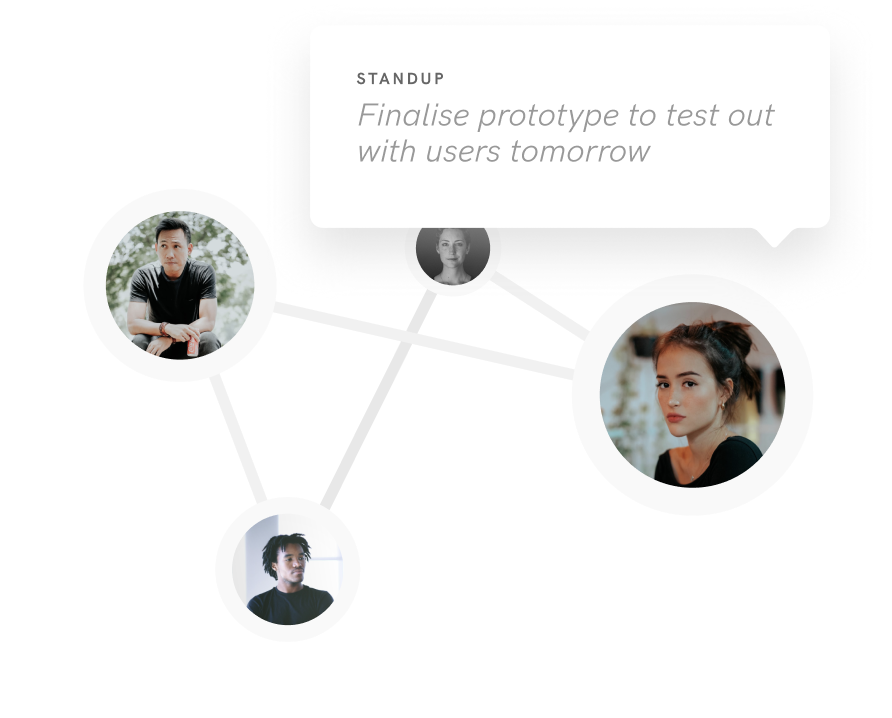
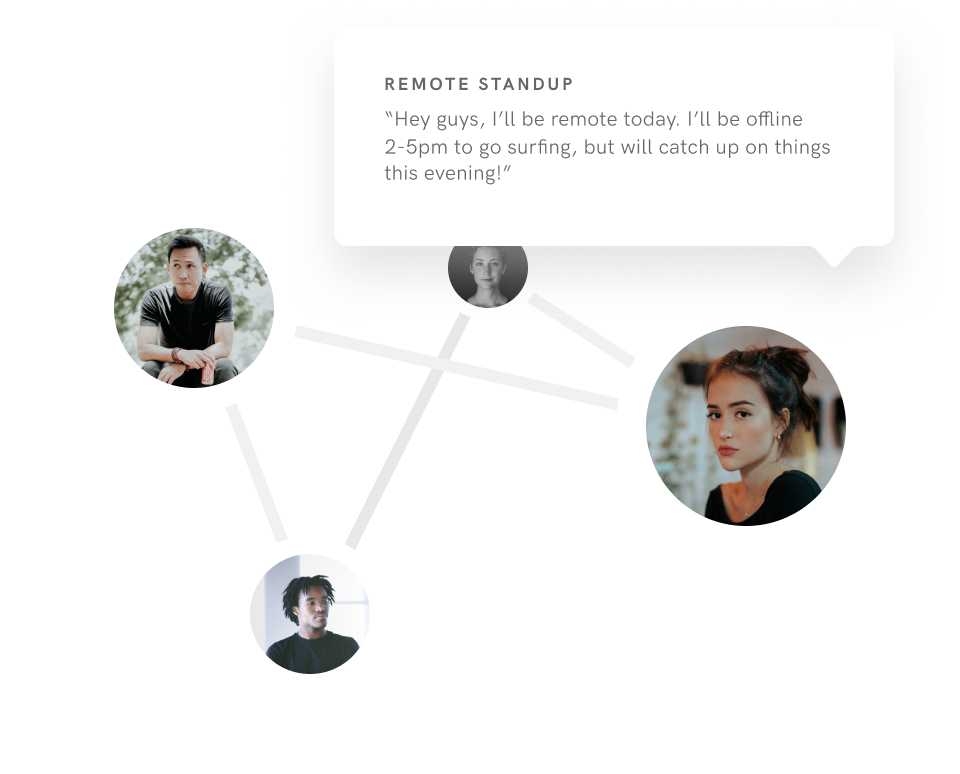
ProductShowcase: Simplify value proposition

Changed region(s): [[0.3935, 0.0919, 0.8778, 0.2451], [0.2119, 0.3677, 0.2422, 0.3983], [0.1513, 0.3677, 0.1816, 0.3983]]

diff --git a/src/components/blocks/ProductShowcase/ProductShowcase.jsx b/src/components/blocks/ProductShowcase/ProductShowcase.jsx
@@ -1,6 +1,7 @@
 import React, { Component } from 'react';
 
 import imgGuide from '../../../assets/images/prototype/product_guide.png';
+import imgOnboarding from '../../../assets/images/prototype/product_onboarding.png';
 import imgStandup from '../../../assets/images/prototype/product_standup.png';
 import imgRetro from '../../../assets/images/prototype/product_retro.png';
 import imgTools from '../../../assets/images/prototype/product_tools.png';
@@ -19,8 +20,9 @@ export default class ProductShowcase extends Component {
           <div className="block__text block__text_left">
             <h3>Organise your team in minutes</h3>
             <p>
-              Use our ready-to-go templates to build a product playbook to
-              quickly get your team on the same page
+              Build a product playbook from our product management templates to
+              effortlessly improve team organisation & communication and deliver
+              better results
             </p>
             <a className="block__cta" href="https://calendly.com/henry_latham">
               Book a Free Call {'>'}
@@ -33,13 +35,14 @@ export default class ProductShowcase extends Component {
 
         <div className="block">
           <div className="block__img">
-            <img alt="Onboarding" src={imgStandup} className="block__img__bg" />
+            <img alt="Onboarding" src={imgTools} className="block__img__bg" />
           </div>
           <div className="block__text">
-            <h3>Feel More Like A Team</h3>
+            <h3>Learn How Remote Teams Work</h3>
             <p>
-              Apply tools & tactics from the world’s best to communicate your
-              vision & get your team to execute towards that vision consistently
+              Apply the tools & tactics from the world{`'`}s best remote teams
+              so you can unlock the ability to work remote in future, whilst
+              improving as a Product Manager along the way
             </p>
             <a className="block__cta" href="https://calendly.com/henry_latham">
               Book a Free Call {'>'}
@@ -52,8 +55,8 @@ export default class ProductShowcase extends Component {
             <h3>Build a Growth Mindset</h3>
             <p>
               Gain high-value insights & take action on problems within your
-              company using our framework for effective remote retrospectives,
-              1-on-1s and standups
+              team using our framework for effective retrospectives, 1-on-1s &
+              standups
             </p>
             <a className="block__cta" href="https://calendly.com/henry_latham">
               Book a Free Call {'>'}
@@ -70,13 +73,19 @@ export default class ProductShowcase extends Component {
 
         <div className="block">
           <div className="block__img">
-            <img alt="Onboarding" src={imgTools} className="block__img__bg" />
+            <img
+              alt="Onboarding"
+              src={imgOnboarding}
+              className="block__img__bg"
+            />
           </div>
           <div className="block__text">
-            <h3>Adapted To Your Unique Context</h3>
+            <h3>Help new hires to excel</h3>
             <p>
-              Learn & apply different approaches to product management to suit
-              your specific team setup
+              New hires are 70% more productive & are 82% more likely to be
+              retained if you onboard them effectively into your team. Use our
+              product onboarding tool to guide them through their first few
+              weeks
             </p>
             <a className="block__cta" href="https://calendly.com/henry_latham">
               Book a Free Call {'>'}

diff --git a/src/components/blocks/Testimonials/Testimonials.jsx b/src/components/blocks/Testimonials/Testimonials.jsx
@@ -20,21 +20,21 @@ export default class Testimonials extends Component {
         name: 'Craig Lawson',
         title: 'Product Manager, Sift',
         comment:
-          'Product Mastery has really helped me dramatically improve how I communicate, motivate & organise my team. All the content & tools are practical & easy-to-apply.',
+          'The tools & content provided by Product Mastery have helped me dramatically improve how I communicate, motivate & organise my team',
       },
       {
         photo: customer2,
         name: 'Rebeca Casa',
         title: 'Junior Product Manager, HeyCater',
         comment:
-          'You can tell the team behind Product Mastery really knows their stuff, focusing on what work & learning how to adapt when in the day-to-day of a busy startup.',
+          'You can tell the team behind Product Mastery really knows their stuff, focusing on what work & learning how to adapt when in the day-to-day of a busy startup',
       },
       {
         photo: customer1,
         name: 'Mark Sarifidis',
         title: 'Product Lead, Growth Media',
         comment:
-          'Within minutes of working with Product Mastery, I felt like I had a clear grasp on the vision, direction & organisation of my team that had been missing from the start.',
+          'We use Jira or Trello for managing projects. The Product Mastery toolkit covers everything else: Vision, strategy, our meetings, rituals & even how we communicate',
       },
     ];
 

diff --git a/src/components/blocks/Hero/Hero.jsx b/src/components/blocks/Hero/Hero.jsx
@@ -25,14 +25,15 @@ export default class Hero extends Component {
         title: 'Master Product',
         titleTwo: 'Management',
         subtitle:
-          'Junior/mid-level PM? Learn how to double your salary & travel the world without spending $5k & months on a course',
+          'Junior/mid-level PM? Learn how to double your salary & unlock remote work without spending $5k & months on a course with our toolkit for world-class product management',
       },
     ];
 
     const secondHero = [
       {
         title: 'Ready to transform your product career?',
-        subtitle: 'Start seeing an impact in just 5 minutes today:',
+        subtitle:
+          'Start seeing an impact in just 5 minutes today & gradually build the right skill set to rapidly become a world-class Product Manager:',
       },
     ];
 
